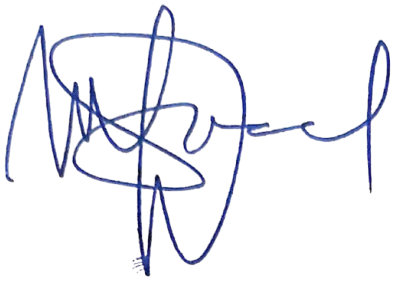
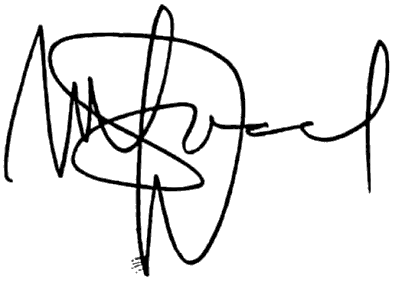
ttd lagi

Changed region(s): [[0.0, 0.0, 1.0, 0.9964]]

diff --git a/resources/views/rooms/print_pemeliharaan_ruangan.blade.php b/resources/views/rooms/print_pemeliharaan_ruangan.blade.php
@@ -483,12 +483,12 @@
             object-fit: contain;
         }
         .ttd-img-kapus {
-            max-height: 52px;
-            max-width: 130px;
+            max-height: 62px;
+            max-width: 145px;
         }
         .ttd-img-pengurus {
-            max-height: 50px;
-            max-width: 125px;
+            max-height: 52px;
+            max-width: 130px;
         }
 
         /* Catatan Kaki */
@@ -867,9 +867,9 @@
                             <span class="ttd-prefix">Mengetahui,</span><br>
                             <span class="ttd-jabatan">Kepala Puskesmas Mantup</span>
                             
-                            <!-- Area TTD dr. Sunaryadi (Asli Tanpa Stempel) -->
+                            <!-- Area TTD dr. Sunaryadi (Asli Tanpa Stempel - Hitam Pekat) -->
                             <div class="ttd-space">
-                                <img src="{{ asset('images/ttd_kapus_nostamp.png') }}" class="ttd-img ttd-img-kapus" alt="TTD dr. Sunaryadi">
+                                <img src="{{ asset('images/ttd_kapus_nostamp.png') }}?v={{ file_exists(public_path('images/ttd_kapus_nostamp.png')) ? filemtime(public_path('images/ttd_kapus_nostamp.png')) : time() }}" class="ttd-img ttd-img-kapus" alt="TTD dr. Sunaryadi">
                             </div>
                             
                             <div class="ttd-nama">dr. MUHAMAD SUNARYADI</div>
@@ -882,7 +882,7 @@
                             
                             <!-- Area TTD Andika Dafa Penta P. (asd.png) -->
                             <div class="ttd-space">
-                                <img src="{{ asset('images/ttd_andika.png') }}" class="ttd-img ttd-img-pengurus" alt="TTD Andika Dafa">
+                                <img src="{{ asset('images/ttd_andika.png') }}?v={{ file_exists(public_path('images/ttd_andika.png')) ? filemtime(public_path('images/ttd_andika.png')) : time() }}" class="ttd-img ttd-img-pengurus" alt="TTD Andika Dafa">
                             </div>
                             
                             <div class="ttd-nama">ANDIKA DAFA PENTA P.</div>
@@ -924,9 +924,10 @@
                         </label>
                     </div>
                     <div style="margin-top: 10px; display: flex; align-items: center; gap: 12px; background: rgba(255,255,255,0.05); padding: 8px; border-radius: 6px;">
-                        <img id="preview-modal-kapus" src="{{ asset('images/ttd_kapus_nostamp.png') }}" style="max-height: 48px; max-width: 100px; background: white; padding: 2px; border-radius: 4px; object-fit: contain;" alt="TTD dr. Sunaryadi">
+                        <img id="preview-modal-kapus" src="{{ asset('images/ttd_kapus_nostamp.png') }}?v={{ file_exists(public_path('images/ttd_kapus_nostamp.png')) ? filemtime(public_path('images/ttd_kapus_nostamp.png')) : time() }}" style="max-height: 48px; max-width: 100px; background: white; padding: 2px; border-radius: 4px; object-fit: contain;" alt="TTD dr. Sunaryadi">
                         <div style="font-size: 11.5px; color: #cbd5e1; flex: 1;">
-                            <div style="font-weight: bold; color: #f8fafc;">Tanda Tangan Tinta Biru dr. Sunaryadi</div>
+                            <div style="font-weight: bold; color: #f8fafc;">Tanda Tangan Tinta Hitam Pekat dr. Sunaryadi</div>
+                            <div style="font-size: 10.5px; color: #94a3b8; margin-top: 2px;">Tinta hitam pekat agar kontras & jelas saat dicetak di kertas kuning/berwarna.</div>
                             <div style="display: flex; gap: 12px; margin-top: 5px;">
                                 <label style="display: flex; align-items: center; gap: 5px; cursor: pointer; font-size: 11px; color: #e2e8f0;">
                                     <input type="radio" name="kapus_type" value="nostamp" checked onchange="changeKapusTtdType(this.value)">
@@ -1015,9 +1016,9 @@
         const sheetRowCounts = {};
         const defaultRows = {{ $defaultTargetRows }};
         let currentTtdShift = 0; // dalam mm
-        const defaultKapusNoStamp = "{{ asset('images/ttd_kapus_nostamp.png') }}";
+        const defaultKapusNoStamp = "{{ asset('images/ttd_kapus_nostamp.png') }}?v={{ file_exists(public_path('images/ttd_kapus_nostamp.png')) ? filemtime(public_path('images/ttd_kapus_nostamp.png')) : time() }}";
         const defaultKapusStamp = "{{ asset('images/ttd_baru.png') }}";
-        const defaultAndikaTtd = "{{ asset('images/ttd_andika.png') }}";
+        const defaultAndikaTtd = "{{ asset('images/ttd_andika.png') }}?v={{ file_exists(public_path('images/ttd_andika.png')) ? filemtime(public_path('images/ttd_andika.png')) : time() }}";
 
         // Inisialisasi awal target baris untuk tiap sheet
         document.addEventListener('DOMContentLoaded', function() {
@@ -1059,11 +1060,11 @@
             document.querySelectorAll('.ttd-img-kapus').forEach(img => {
                 img.src = src;
                 if (type === 'stamp') {
-                    img.style.maxHeight = '64px';
-                    img.style.maxWidth = '135px';
+                    img.style.maxHeight = '68px';
+                    img.style.maxWidth = '145px';
                 } else {
-                    img.style.maxHeight = '52px';
-                    img.style.maxWidth = '130px';
+                    img.style.maxHeight = '62px';
+                    img.style.maxWidth = '145px';
                 }
             });
             const preview = document.getElementById('preview-modal-kapus');
